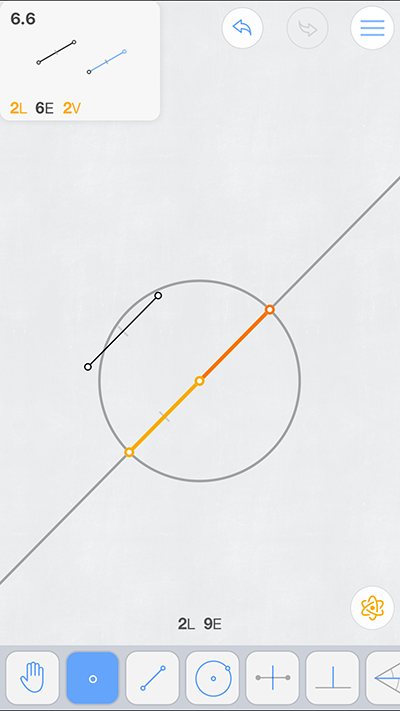
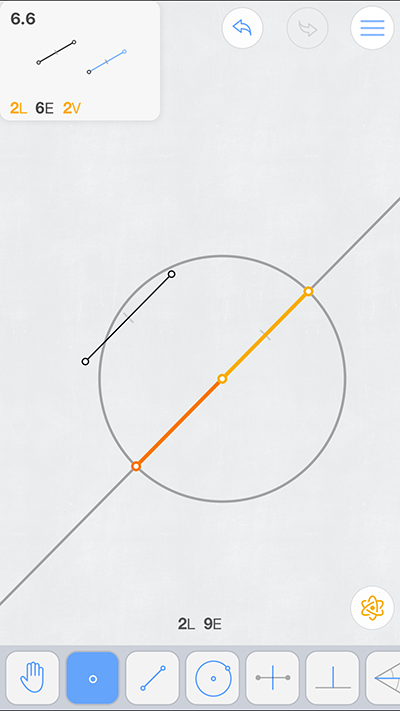
增加解答

diff --git a/Euclidea3.md b/Euclidea3.md
@@ -215,29 +215,30 @@ _注：[2V，上下各作一个六边形得到隐藏星星。](solving/Euclidea3
 #### § 6.Zeta 普通⭐:30，隐藏⭐:4，努力求全解中...  
 
 - 6.1 中心点镜象线段 *4L 5E*  
-解：[4L5E，---。](solving/Euclidea3/6.1.png)  
+解：[4L，用2条直线和1个圆求得一个端点，然后用平行线工具。](solving/Euclidea3/6.1.1.png)  
+解：[5E，用2条直线和2个圆求得两个端点，连接它们。](solving/Euclidea3/6.1.2.png)  
 
 - 6.2 轴镜象线段 *5L 5E*  
 解：[5L5E，轴即为角平分线。](solving/Euclidea3/6.2.png)  
 
 - 6.3 复制线段 *3L 4E 2V* ⭐  
-解：[3L，---。](solving/Euclidea3/6.3.1.png)   
+解：[3L，作中垂线和圆即可得到答案。](solving/Euclidea3/6.3.1.png)   
 *解：4E解答还没想出来。*  
-_注：2V，在给定点两侧各做一条线段得到隐藏星星。_  
+_注：[2V，在给定点两侧各做一条线段得到隐藏星星。](solving/Euclidea3/6.3.3.png)_  
 
 - 6.4 给定角平分线 *4L 4E*  
-解：[4L，---。](solving/Euclidea3/6.4.1.png)   
 *解：4E解答还没想出来。*  
 
 - 6.5 还原圆 *4L 5E*  
-解：[4L，---。](solving/Euclidea3/6.5.1.png)   
+解：[4L，作AO和AB的平行线。](solving/Euclidea3/6.5.1.png)   
 *解：5E解答还没想出来。*  
 
 - 教程：半径作圆工具 *1L 5E*  
 解：简单题，略。  
 
 - 6.6 复制线段 *2L 6E 2V* ⭐  
-*解：2L6E解答还没想出来。*  
+解：[2L，指定半径作圆，再用平行线工具求得解。](solving/Euclidea3/6.6.1.png)   
+*解：6E解答还没想出来。*  
 _注：[2V，在给定点两侧各做一条线段得到隐藏星星。](solving/Euclidea3/6.6.3.png)_  
 
 - 6.7 已知边长的三角形 *4L 12E 4V* ⭐  
@@ -250,7 +251,7 @@ _注：[4V，如图做4个三角形得到隐藏星星。](solving/Euclidea3/6.7.
 _注：[4V，如图做4个三角形得到隐藏星星。](solving/Euclidea3/6.8.3.png)_  
 
 - 6.9 平行四边型 *5L 8E*  
-解：[5L，---。](solving/Euclidea3/6.9.1.png)   
+解：[5L，1.作中垂线求AB中点；2.以CB为半径作圆；3.过点作平行线。](solving/Euclidea3/6.9.1.png)   
 *解：8E解答还没想出来。*  
 
 #### § 7.Eta 普通⭐:36，隐藏⭐:4，努力求全解中...  
